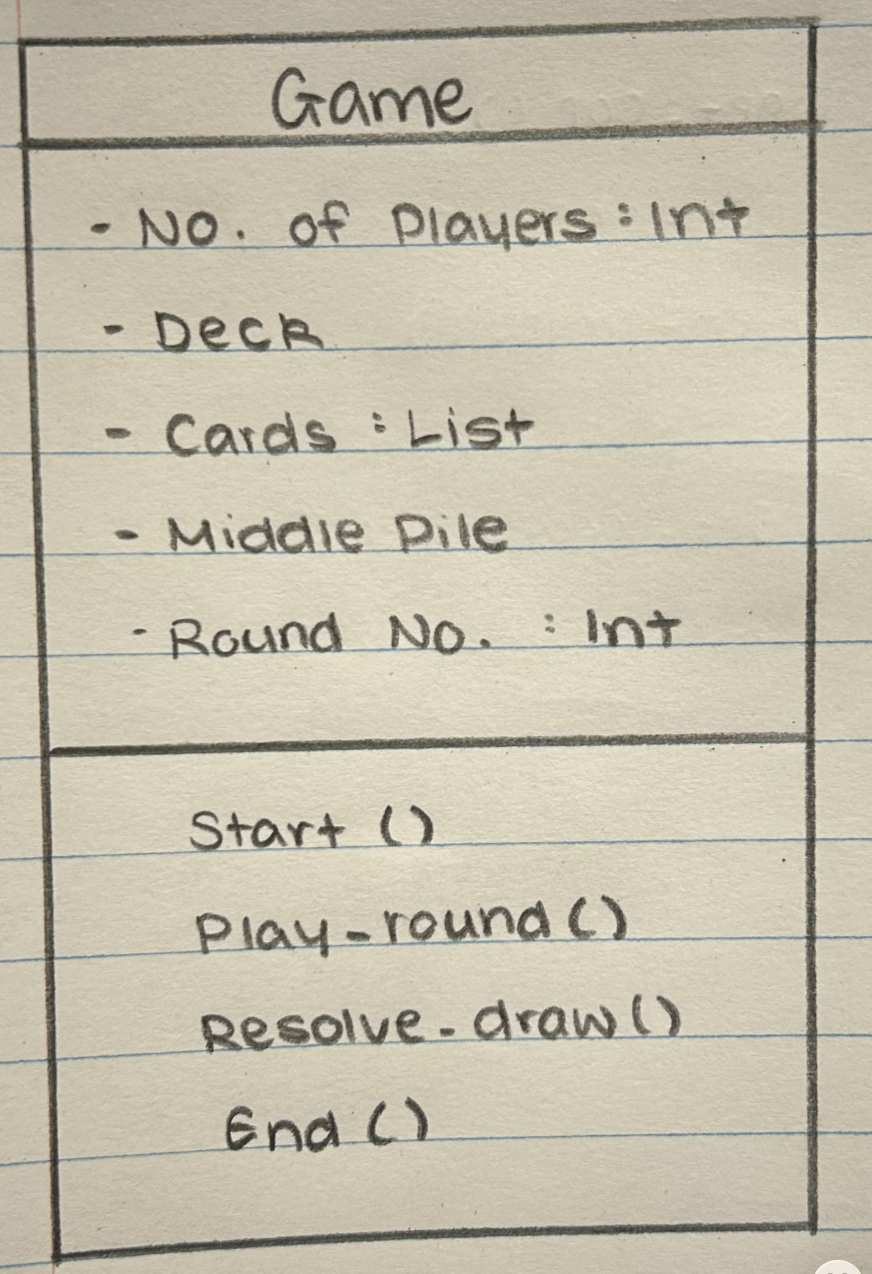
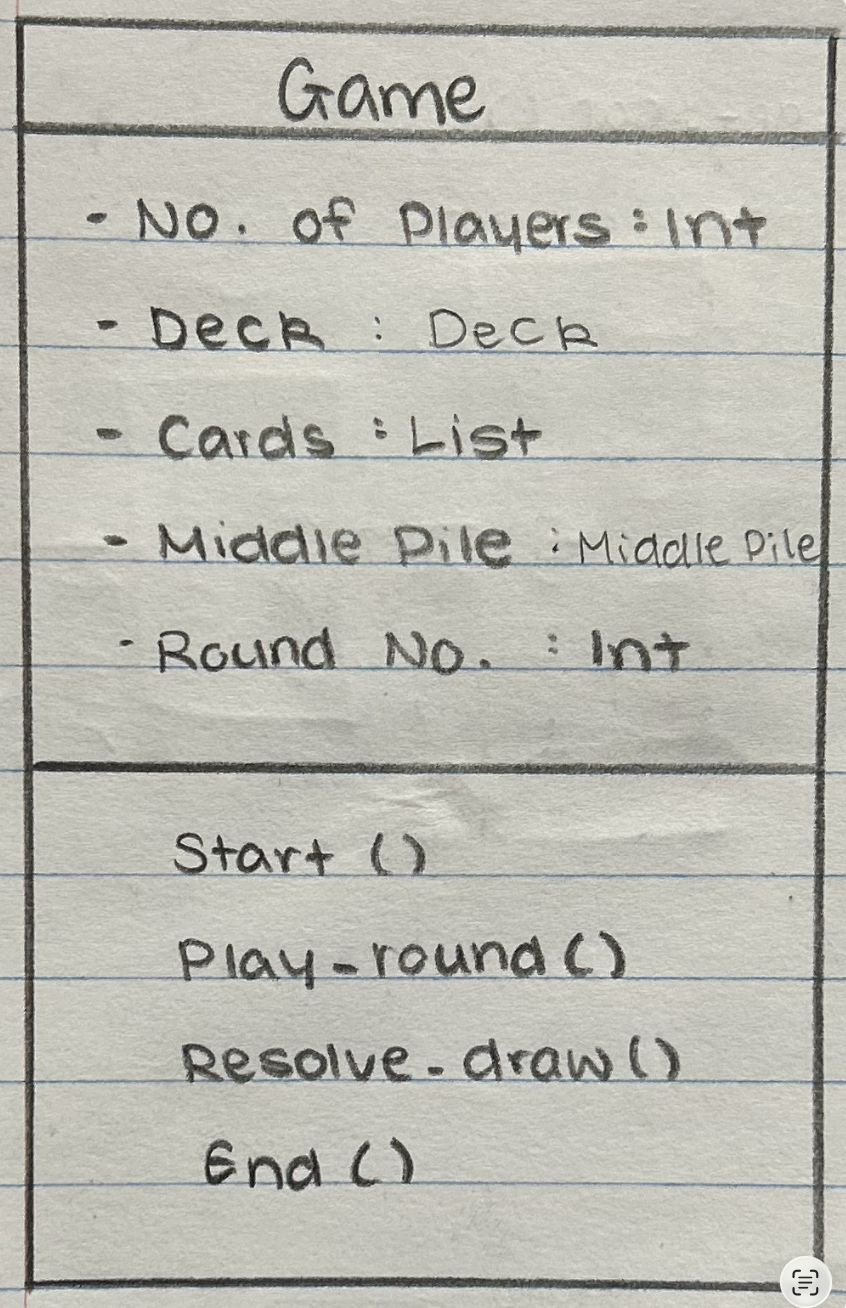
feat : UML Class Diagram, Structure Chart, Card Wireframe and Exampleand Part F.   fix : Game and Car Classes
I put in the structure chart and UML class diagram as well as my card wireframe and example. I fixed my car and game classes and also wrote my part F. Now I only have my storyboards to go.

diff --git a/README.md b/README.md
@@ -1,19 +1,4 @@
-Class - OOP
-Game - Procedural
-
-- UML standards
-- HSC terminology ( no generalising )
-- technical terms ( technical language on the HSC - Syllabus, course specs )
-- optimal stage 
-
-- structure chart represents game mechanics
-- card design ( image, text, variables, datatypes ) = wireframe
-- interface sketch ( wireframe ) = think about screen size, standardized methods, etc. 
-- graphing in line 
-- documentation
-
-
-# Assessment Task 2 - Object-Orineted Design Project - Car Comparison Game
+# Assessment Task 2 - Object-Oriented Design Project - Car Comparison Game
 Yuna Shin
 
 ## Plan
@@ -38,8 +23,8 @@ Price is the second-most powerful attribute because its range is enormous, as th
 ### 3. Horsepower
 Horsepower represents the strength of a car's engine, and its values span from very low outputs to extremely powerful machines. This creates meaningful variation between cards, making horsepower an exciting and competitive attribute. It was chosen because it is one of the most recognisable car statistic, giving players a clear sense of the what the numbers represent. The attribute it fair because its range is wide enough to matter but not so extreme that it overshadows other categories. Horsepower influences outcomes in a noticeable but not extreme way, making it a reliable attribute that stays competitive without dominating. 
 
-### 4. Cool Power
-Cool Power is the part of a car used to boost a vehicle's horsepower, giving the deck a statistic that feels different from the traditional car specifications. Its range is moderate, with values that differ enough to create competition but not enough to produce overwhelming advantages. This makes Cool Power a steady and balanced attribute where outcomes often feel close and unpredictable. It was chosen to add creativity, giving players a category that stands out conceptually. The controlled range ensures that Cool Power enhances gameplay without creating unfair or one-sided rounds. 
+### 4. Cool Factor
+Cool Factor represents the unique flair, personality or iconic appeal of a car, giving the deck a statistic that feels different from traditional performance aspects. Its range is moderate, offering enough variation to create a competition without allowing any card to dominate, and it satys especially balanced as even older or weaker cars can score surprisingly high thanks to classic styling, nostalgic charm or a favourite status. This means decade-old models can genuinly outperform a modern supercar in this category, keeping rounds predictable and fair. Cool Factor was chosen to add creativity to the game, and its controlled spread combined with the fact that any car can be cool for different reasons ensures that the game remains fun and competitive.
 
 ### 5. Curb Weight
 Curb Weight reflects how heavy a vehicle is, with values ranging from very lightweight models to much heavier ones. The range is noticeable but not extreme, which makes Curb Weight a more moderate and steady attribute. It was chosen because weight is a classic and realistic car statistic that fits naturally into a card‑based system. The attribute remains fair because its narrower spread prevents any card from gaining an overwhelming advantage, and the outcomes tend to be closer and more suspenseful. Curb Weight adds variety while maintaining balanced gameplay.
@@ -49,55 +34,34 @@ Top Speed is the least powerful attribute because its values fall within a relat
 
 
 ## Part B - Class Design
-Design the object-oriented structure of your game.
-Required classes :
-- Car
-- Card
-- Deck
-- Player
-- Game
-- Hand
-
-For each class :
-- List attributes
-- List methods
-- Describe its role in the system
-
 ### Car
-The *Car* class represents the raw data for a vehicle, storing all attribute values used during comparisons. It acts as the foundational blueprint that all cars are built from. 
-![](./images/Car.png)
+The *Car* class represents the raw data for a vehicle, storing all attribute values used during comparisons. It acts as the foundational blueprint that all cars are built from.   
+<img src="./images/Car.png" width= "300" height= "350">
 
 ### Card
-The *Card* class turns a *Car* into a playable game piece by presenting its attributes for use in each round. It serves as the object players draw, flip and compare. 
-![](./images/Card.png)
+The *Card* class turns a *Car* into a playable game piece by presenting its attributes for use in each round. It serves as the object players draw, flip and compare.   
+<img src="./images/Card.png" width= "300" height= "300">
 
 ### Deck
-The *Deck* class manages the full collection of cards, handling shuffling, dealing and any shared piles. It ensures randomness and proper setup for the game.
-![](./images/Deck.png)
+The *Deck* class manages the full collection of cards, handling shuffling, dealing and any shared piles. It ensures randomness and proper setup for the game.  
+<img src="./images/Deck.png" width= "300" height= "350">
 
 ### Hand 
-The *Hand* class represents the collection of cards a player currently holds after the deck is divided. It manages drawing, removing and adding cards during gameplay, acting as the player's active pile. 
-![](./images/Hand.png)
+The *Hand* class represents the collection of cards a player currently holds after the deck is divided. It manages drawing, removing and adding cards during gameplay, acting as the player's active pile.   
+<img src="./images/Hand.png" width= "300" height= "300">
 
 ### Player
-The *Player* class represents a participant and stores their personal pile of cards. It performs actions such as flipping cards, choosing attributes and receiving lost cards. 
-![](./images/Player.png)
+The *Player* class represents a participant and stores their personal pile of cards. It performs actions such as flipping cards, choosing attributes and receiving lost cards.   
+<img src="./images/Player.png" width= "300" height= "350">
 
 ### Game
-The *Game* class controls the overall flow, enforcing rules, managing turns, resolving rounds and determining when the game ends. It coordinates all other classes to run the gameplay loop. 
-![](./images/Game.png)
+The *Game* class controls the overall flow, enforcing rules, managing turns, resolving rounds and determining when the game ends. It coordinates all other classes to run the gameplay loop.   
+<img src="./images/Game.png" width= "300" height= "400">
 
 
 ## Part C - Class Diagram
-Create a UML class diagram including :
-- All classes
-- Attributes and methods
-- Relationships (association, aggregation, inheritance if used)
+<img src="./images/UML_Class_Diagram.png" width= "300" height= "400">
 
-Must include :
-- Clear structure
-- Correct relationships
-- At leat 2 annotated design decisions
 
 ## Part D - Game Mechanics Design
 ### How the game works :
@@ -139,6 +103,7 @@ This could be fixed with a shield card that can prevent a player from receving t
 - Losing the ability to add to the pile for the next two rounds
 
 ### Structure Chart
+<img src="./images/Structure_Chart.png" width= "300" height= "200">
 
 
 ## Part E - Interface and Car Design ( storyboards )
@@ -151,28 +116,49 @@ Must include :
 - Clear layout of information
 - Storyboards and/or walk through
 
+### Card Design - Wireframe
+<img src="./images/Wireframe.png" width= "300" height= "350">
+
+### Card Design - Example
+<img src="./images/Card_Example.png" width= "250" height= "350">
+
+### Storyboard 
+
+
 ## Part F - Social, Ethical and Legal Implications
 ### Individual Impact
-- How could you game influence user behaviour or decision-making?
-- Could it encourage bias (e.g. favouring expensive or high-performance cars)?
-- What respomsibilites do you have as a designer to present fairinformation?
+**How could you game influence user behaviour or decision-making?**
+My game can influence user behaviour by encouraging players to compare numbers, balance risks and make quick strategic decisions. Over time, this strengthens skills like pattern recognition, probability thinking and decision-making under pressure. 
+
+**Could it encourage bias (e.g. favouring expensive or high-performance cars)?**
+As high-value attributes often win rounds, the game may unintentionally make players view expensive or high-performance cars as "better". However, the attributes of acceleration and cool factor help balance this out, since even older or less powerful cars can score higher in these areas. 
+
+**What responsibilities do you have as a designer to present fair information?**
+As a designer, I am responsible for presenting information that is accurate and not misleading. To support this, all attributes will be correct, well-sourced and clearly presented so every card is fair within the game.
 
 ### Social Impact
-- How might your game reinforce stereotypes or inequalities (e.g. wealth, status, access to vehicles)?
-- Does our system gavour certain types of users or cars?
-- How could your design be made more inclusive or fair?
+**How might your game reinforce stereotypes or inequalities (e.g. wealth, status, access to vehicles)?**
+My game might reinforce social inequalities by making luxury or high-status cars seem more desirable because they simply have larger numbers. This can unintentionally mirror real-word hierarchies around wealth and access to vehicles. 
+
+**Does your system favour certain types of users or cars?**
+My system could favour players who draw extreme-value cards, giving them more opporutinities to win rounds. This also highlights high-performance vehicles more prominently than everyday or practical ones. However, they are mainly balanced out by the attributes that favour slower acceleration time or by aesthetics. 
+
+**How could your design be made more inclusive or fair?**
+The design could be made more inclusive and fair by adding attributes that reflect everyday concerns like safety, reliability or accessibility. Including a larger range of vehicles (so more cards) and giving more unique davantages to low-performance cards could help create a more balanced experience. 
 
 ### Environmental Impact
-- How could your game influence attitudes toward fuel use, emissions or sustainability?
-- Does your attribute selection promote or ignore environmental considerations?
-- What changes could you make to encourage more environmentally responsible thinking?
+**How could your game influence attitudes toward fuel use, emissions or sustainability?**
+My game could influence attributes toward sustainability by prompting players to think about how attributes like horsepower relate to fuel use and emissions. Additonally, including electric cars could also spark curiosity about environmental impacts, even if the game doesn't mention it directly. 
+
+**Does your attribute selection promote or ignore environmental considerations?** 
+My current attribute selection focuses mainly on performance and cost, which means that environmental considerations like emissions, fuel efficiency or electric range are not promoted and mainly ignored.
+
+**What changes could you make to encourage more environmentally responsible thinking?**
+I could encourage environmentally responsible thinking by adding attributes such as CO2 emmissions, fuel efficiency or carbon footprint. Other rules that I could consider are rewarding low-emission vehicles, which could help players recognise sustainability.
 
 ### Legal Considerations
-- What legal issues could arise from using real-world car data (e.g. ownership, copyright, accuracy)?
-- How would you ensure your system avoids misleading users?
+**What legal issues could arise from using real-world car data (e.g. ownership, copyright, accuracy)?**
+Legal issues could arise from using real-word car names, images or statistics because they are often protected by copyright or trademarks. Inaccurate data could also create problems with brand representation, expecially for famous companies.
 
-
-questions i need to ask:
-- what do tyou mean by a storyboard or a walk thorugh and how is that different from just explaining the game mechanics
-- check my strucute chart
-- check my uml class diagram
+**How would you ensure your system avoids misleading users?**
+I could avoid misleading users by using original photos, verifying all data and including a disclaimer that the statistics are simplified for a smoother gameplay. 